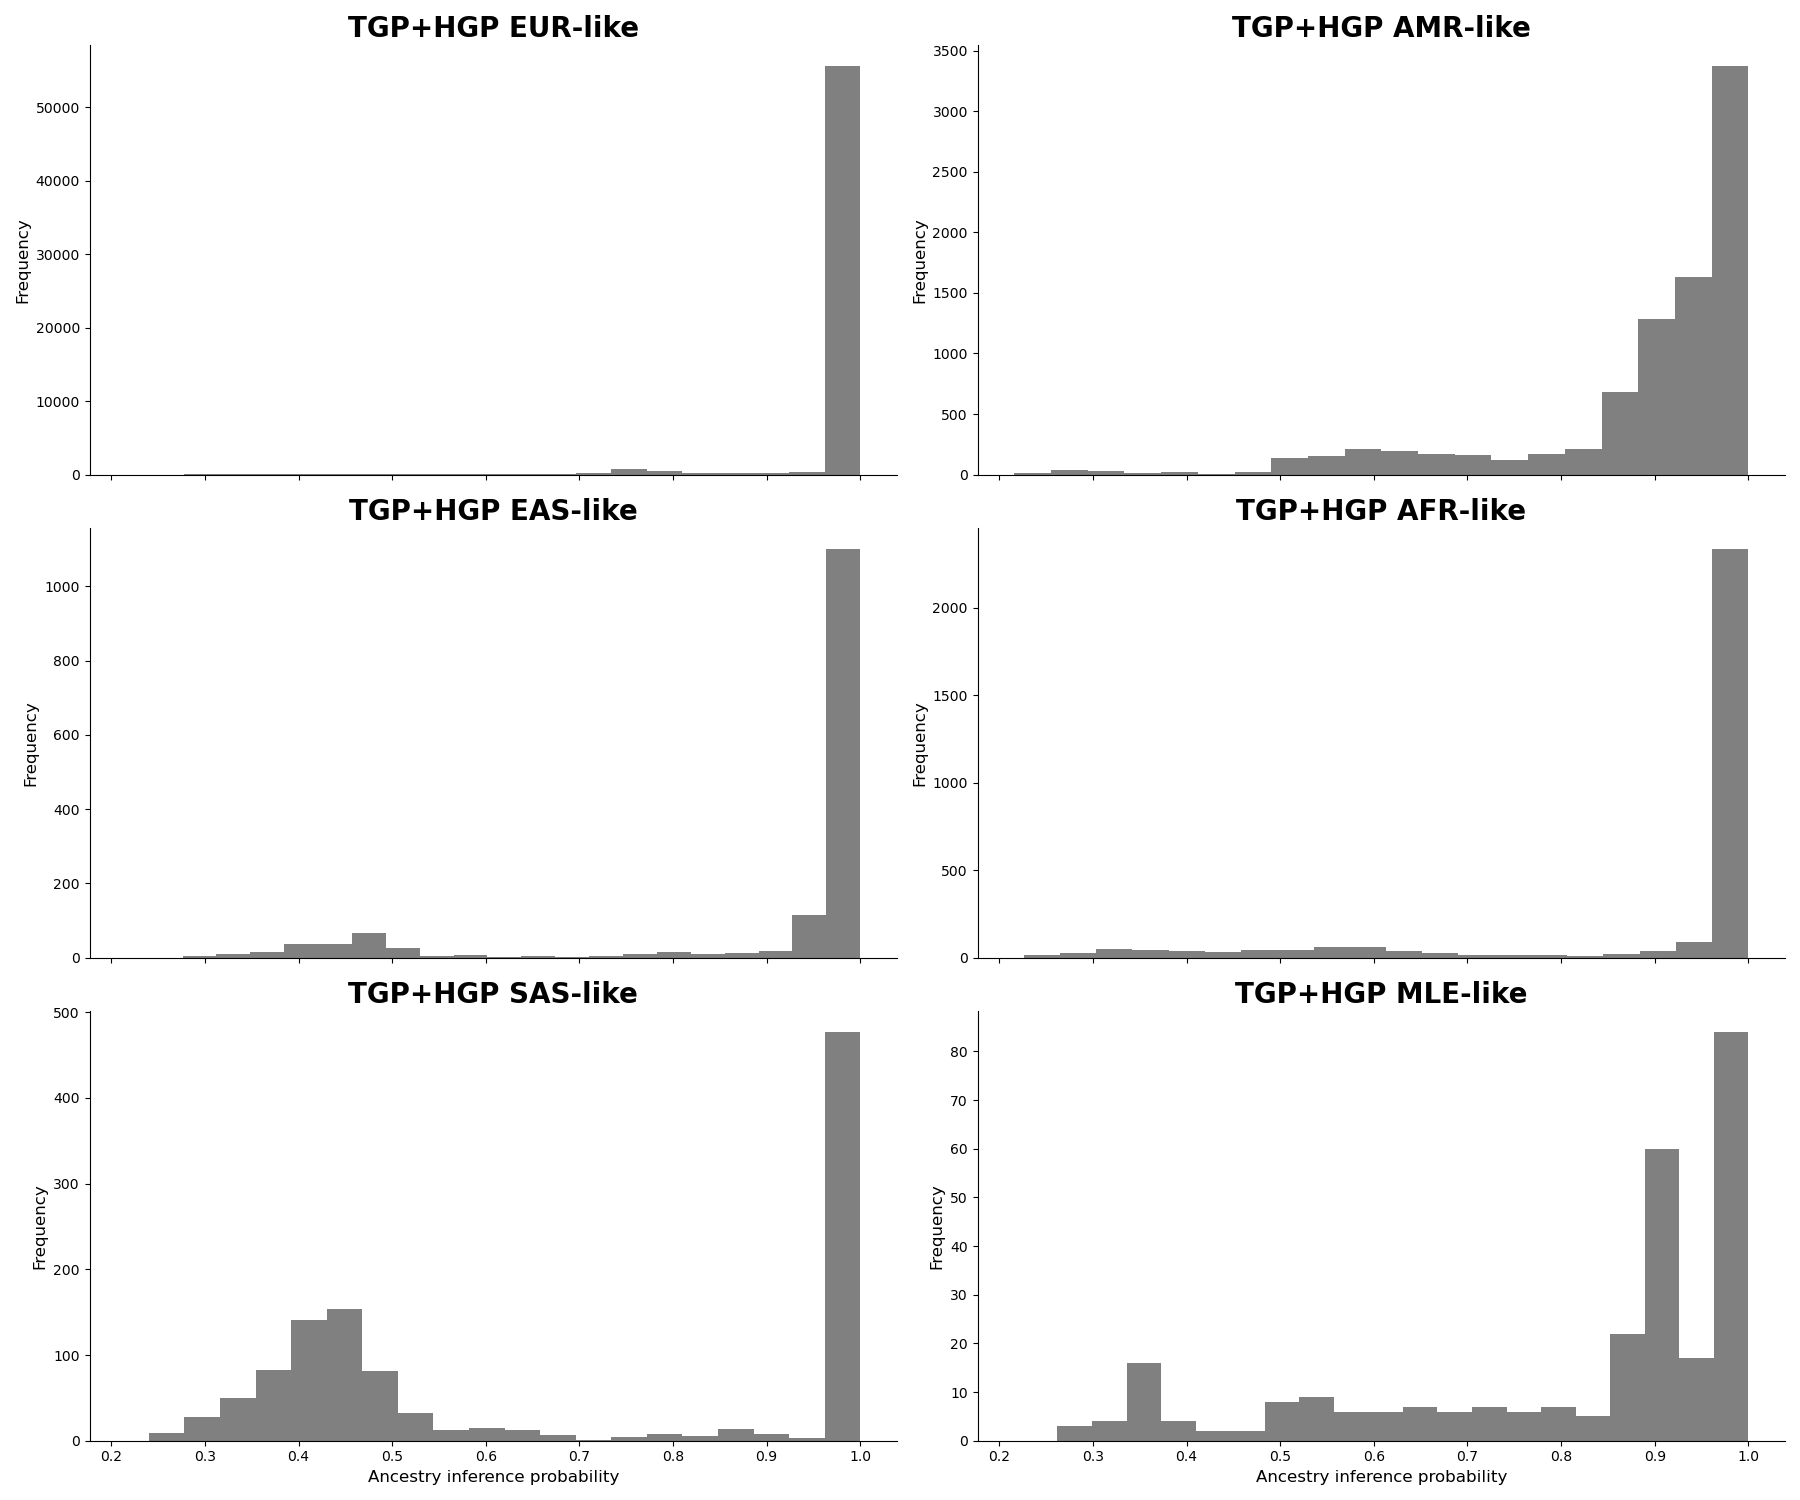
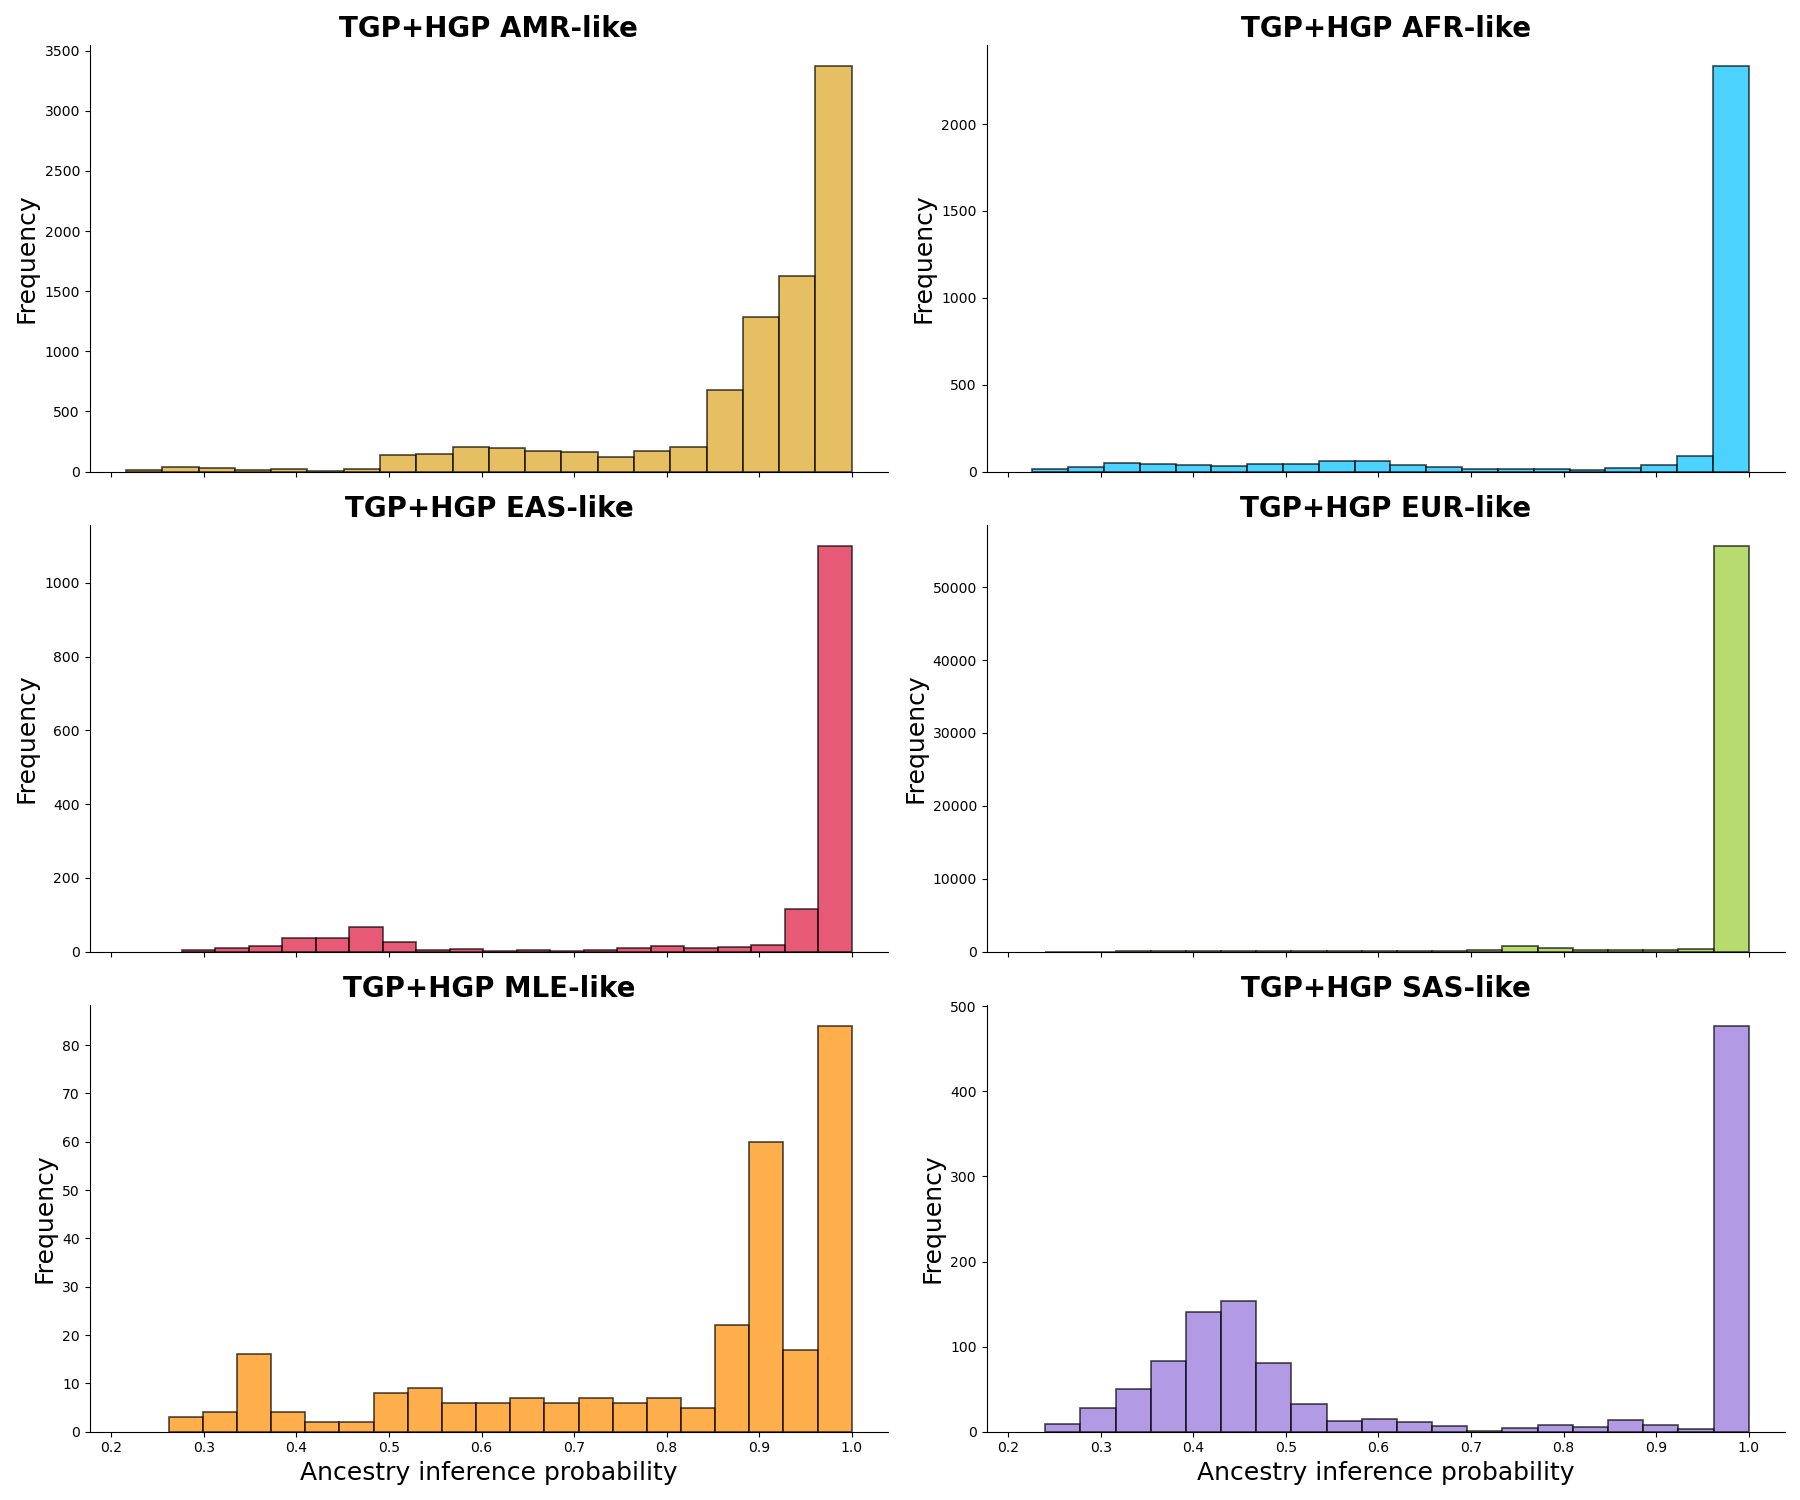
ccpm prob

diff --git a/plotting/ccpm_probabilities.py b/plotting/ccpm_probabilities.py
@@ -52,11 +52,19 @@ rows = int(len(R) / 2)
 cols = 2
 fig, axs = plt.subplots(rows, cols, figsize=(18, 15), sharex=True, sharey=False)
 
-for i, (long_name, values) in enumerate(R.items()):
+color_CCPM = {'African': 'deepskyblue',
+                  'Admixed American': 'goldenrod',
+                  'East Asian': 'crimson',
+                  'European': 'yellowgreen',
+                  'Middle Eastern': 'darkorange',
+                  'South-Central Asian': 'mediumpurple'}
+
+for i, (long_name, values) in enumerate(sorted(R.items())):
     ax = axs[i // cols, i % cols]
-    ax.hist(values, bins=20, color='gray')
+    # ax.hist(values, bins=20, color='slategrey', alpha=0.7, edgecolor='black', linewidth=1.2)
+    ax.hist(values, bins=20, color=color_CCPM[long_name], alpha=0.7, edgecolor='black', linewidth=1.2)
     ax.set_title(pretty_name_map[long_name], fontsize=20, fontweight='bold')
-    ax.set_ylabel('Frequency', fontsize=12)
+    ax.set_ylabel('Frequency', fontsize=18)
 
     # spine removal
     ax.spines['top'].set_visible(False)
@@ -65,7 +73,7 @@ for i, (long_name, values) in enumerate(R.items()):
 # add x-axis label and tick labels for only the bottom row
 for ax in axs.flat:
     if ax in axs[rows - 1]:
-        ax.set_xlabel('Ancestry inference probability', fontsize=12)
+        ax.set_xlabel('Ancestry inference probability', fontsize=18)
 
 
 plt.tight_layout()

diff --git a/README.md b/README.md
@@ -138,20 +138,18 @@ python plotting/plot_ccpm.py \
 <Figure>
 
 ![ccpm_ancestry](pub_figures/ccpm_ancestry.png)
-*Figure4A. Average CCPM group counts for cohorts generated by GenoSiS plotted as a heatmap. Group labels for the query samples are listed on the left axis, while the labels of sample which appear in their GenoSiS cohort appear on the bottom axis.*
+*Figure6A. Average CCPM group counts for cohorts generated by GenoSiS plotted as a heatmap. Group labels for the query samples are listed on the left axis, while the labels of sample which appear in their GenoSiS cohort appear on the bottom axis.*
 </Figure>
 
 #### Figure 6B: CCPM FST
 
 ```
-python plotting/plot_ccpm_fst.py \    
-    --ccpm_fst data/ccpm_data/plink_fst_my_fst.txt.fst.summary
-    --out_dir pub_figures/
+python plotting/ccpm_prob.py
 ```
 <Figure>
 
-![ccpm_fst](pub_figures/ccpm_fst.png)
-*Figure4B. CCPM FST by population.*
+![ccpm_prob](pub_figures/ccpm_prob.png)
+*Figure6B. CCPM ancestry prediction by population.*
 </Figure>
 
 #### Figure 6C: CCPM Scores
@@ -217,4 +215,18 @@ python plottying/plot_timing.py \
 
 ![ccpm_scores](pub_figures/ccpm_genosis_scores.png)<br>
 *Figure S3. CCPM Biobank cohort scores by population. Histograms of GenoSiS cohort scores when k=20 for CCPM Biobank data. Query and cohort population labels are plotted in the same order for both axes.*
+</Figure>
+
+
+#### Former..Figure 6B: CCPM FST
+
+```
+python plotting/plot_ccpm_fst.py \    
+    --ccpm_fst data/ccpm_data/plink_fst_my_fst.txt.fst.summary
+    --out_dir pub_figures/
+```
+<Figure>
+
+![ccpm_fst](pub_figures/ccpm_fst.png)
+*Figure6B. CCPM FST by population.*
 </Figure>
